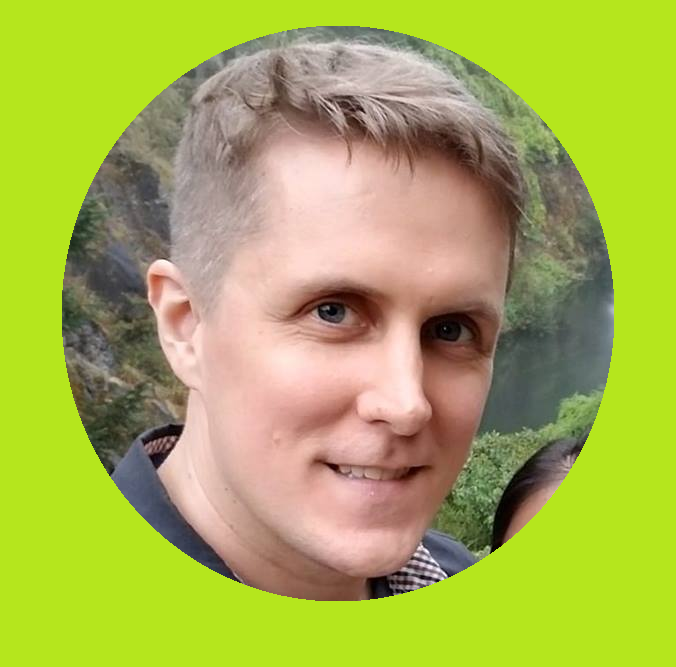
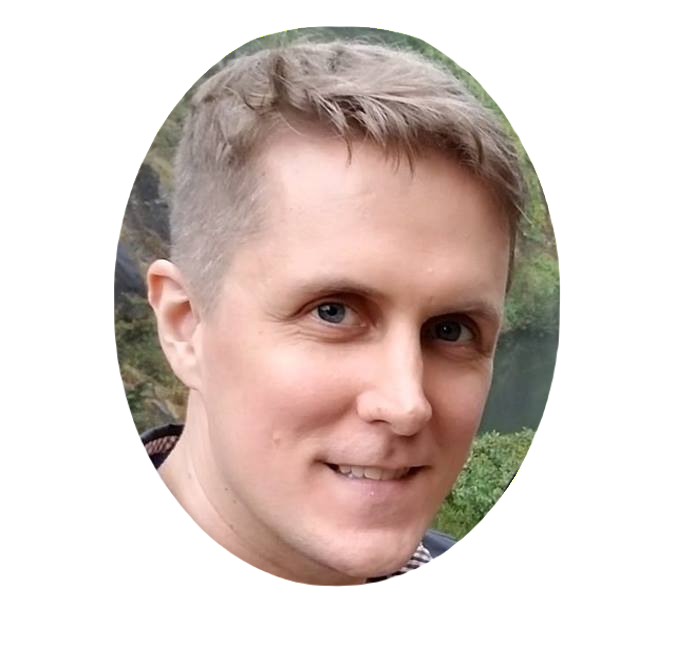
added image transparency and content to about me

diff --git a/index.html b/index.html
@@ -27,8 +27,14 @@
         <section>
             <h2 id="about">About Me</h2>
             <article class="about-me">
-                <p>Testing testing 1 2 3</p>
-                <img src="./assets/images/jamin01.jpg" alt="Jamin Hogan photo">
+                <p>Welcome to my Professional Portfolio. Please allow me to 
+                <br>demonstrate my skills sharpened during the Spring 2023 
+                <br>Georgia Tech Coding Bootcamp. After graduating from Tech
+                <br>with a Computer Science degree in 2003, I began a legal  
+                <br>career spanning two decades. 
+                <br>
+                <br>It is time to return to my original passion!</p>
+             <img src="./assets/images/JaminPNG.png" alt="Jamin Hogan photo">
             </article>
         </section>
 

diff --git a/assets/css/style.css b/assets/css/style.css
@@ -90,14 +90,18 @@ article {
 
 
 .about-me {
-    margin: 50px;
+    display: flex;
+    justify-content: space-around;
+    height: 300px;
+    width: 80%;
 }
 
-
+/* .about-me p {
+    align-self: center;
+} */
 
 .about-me img {
-    height: 300px;
-    padding: 50px;
+    height: 100%;
 }
 
 
